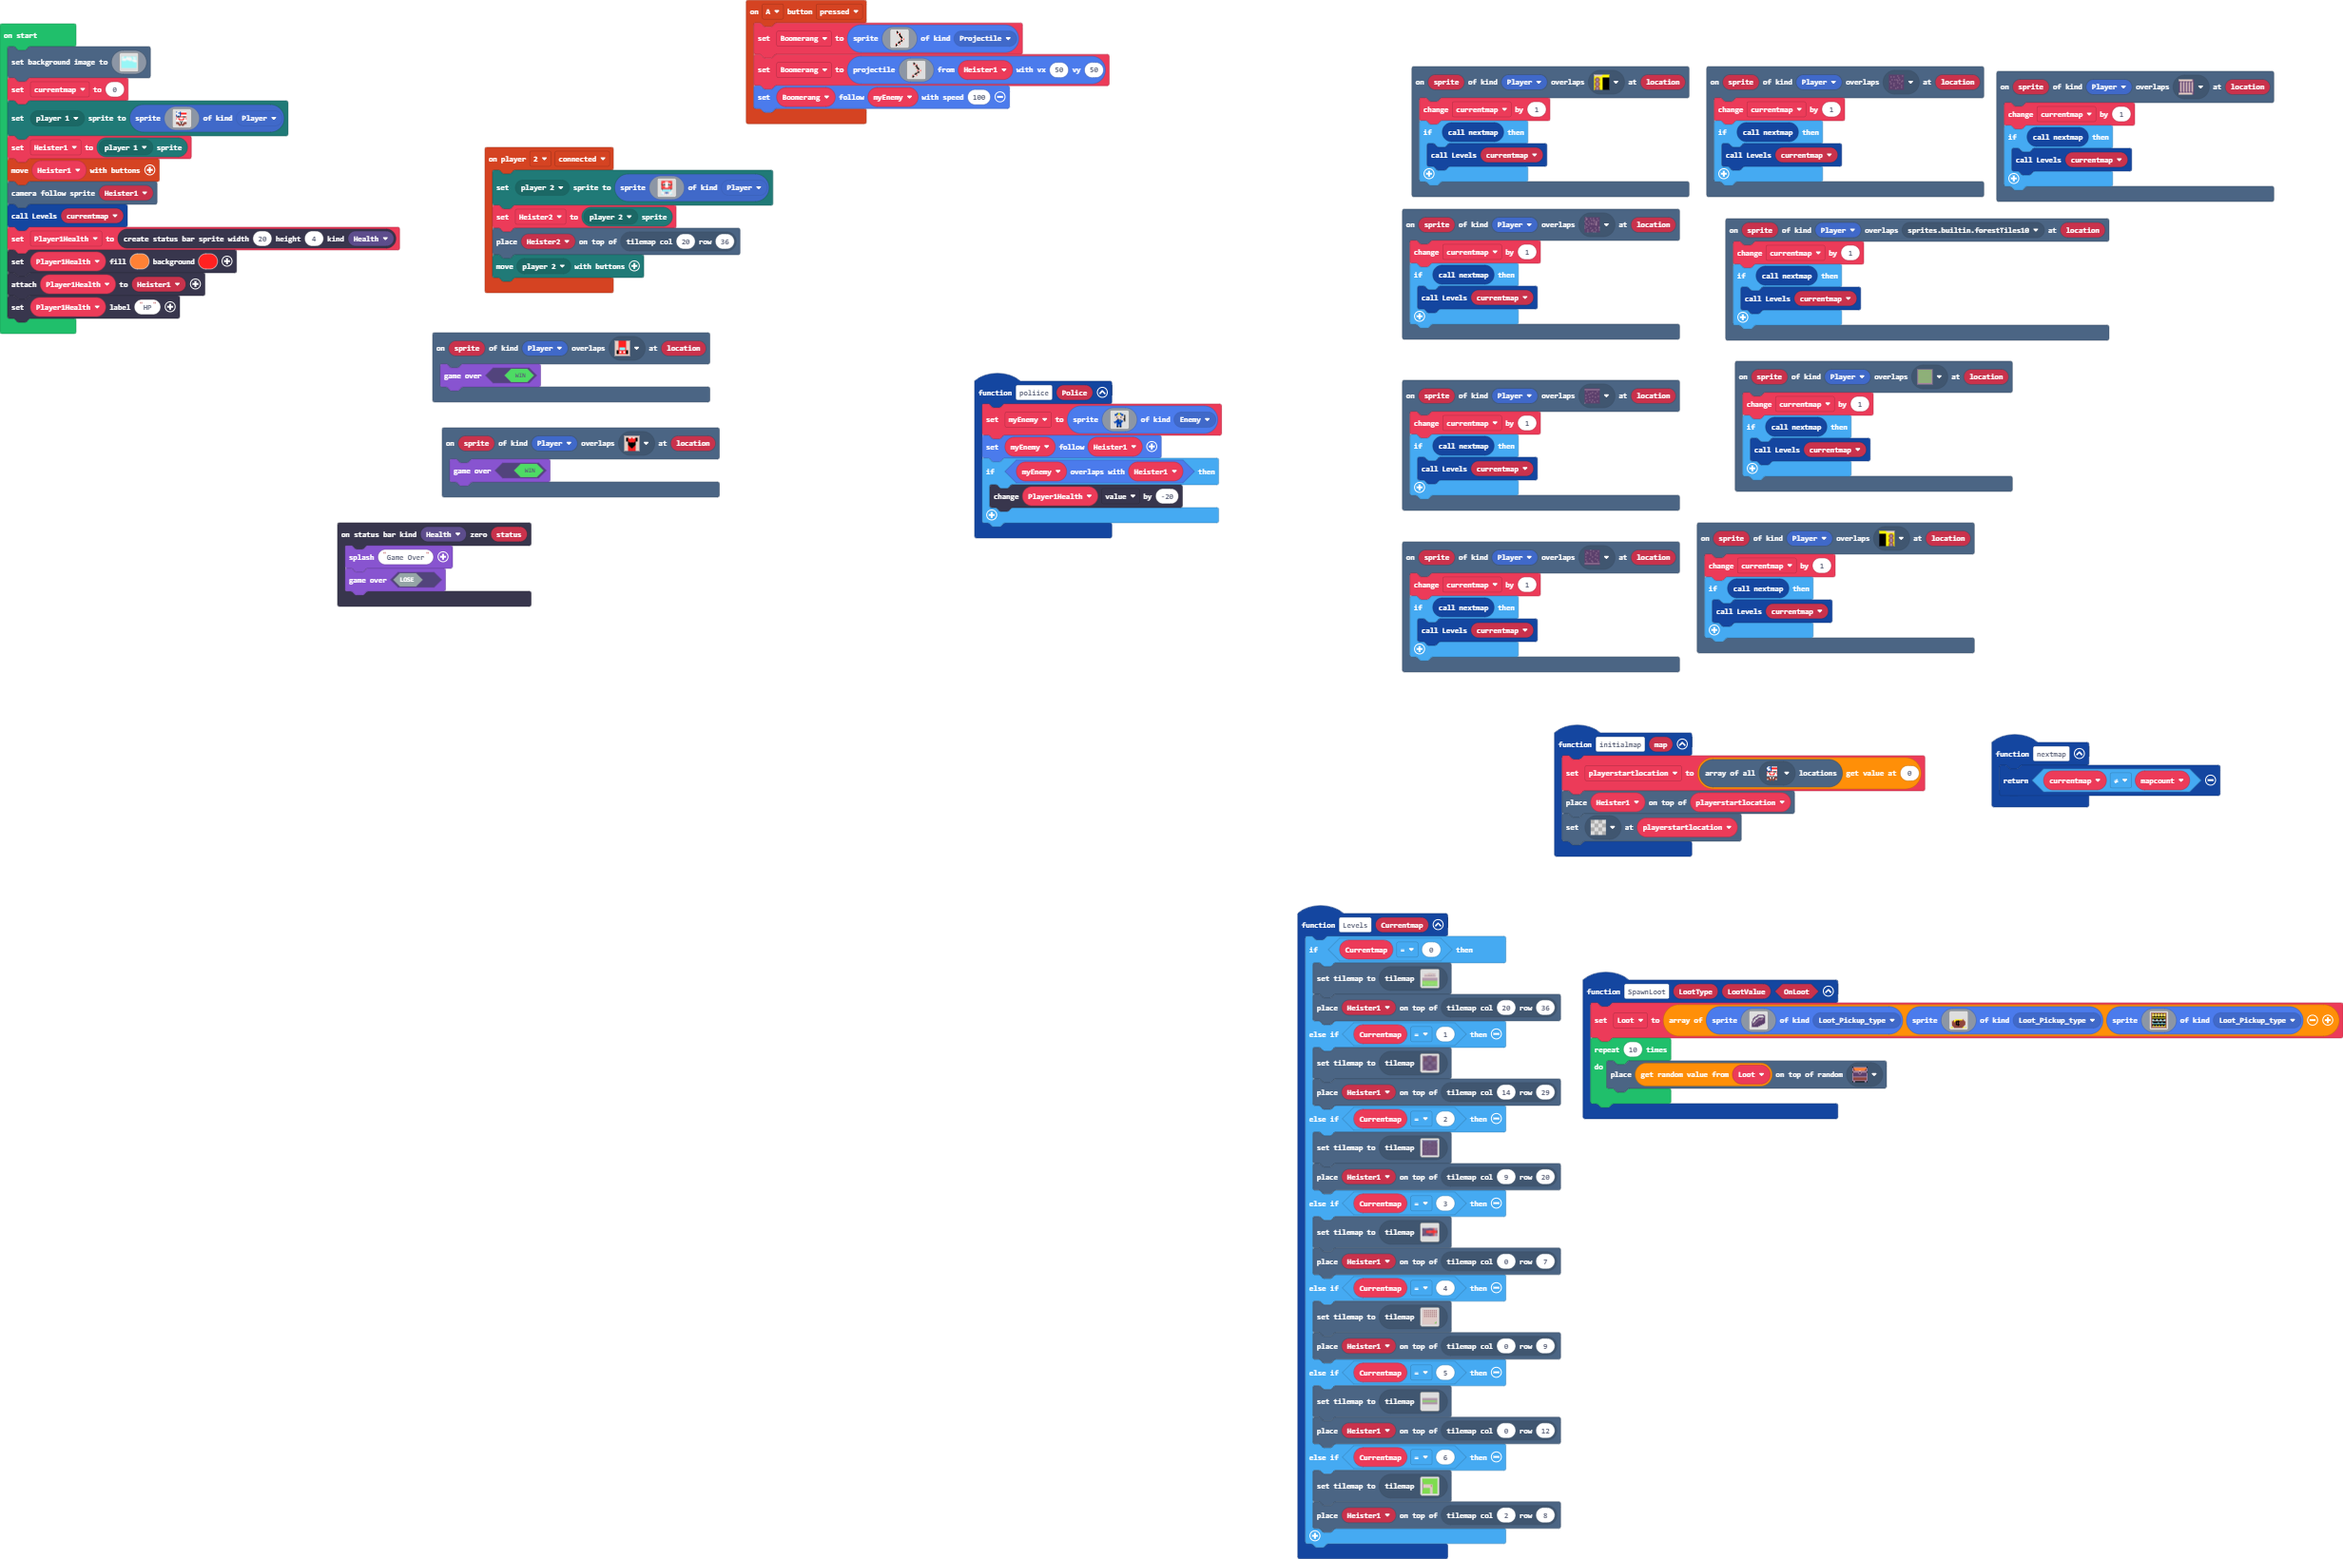
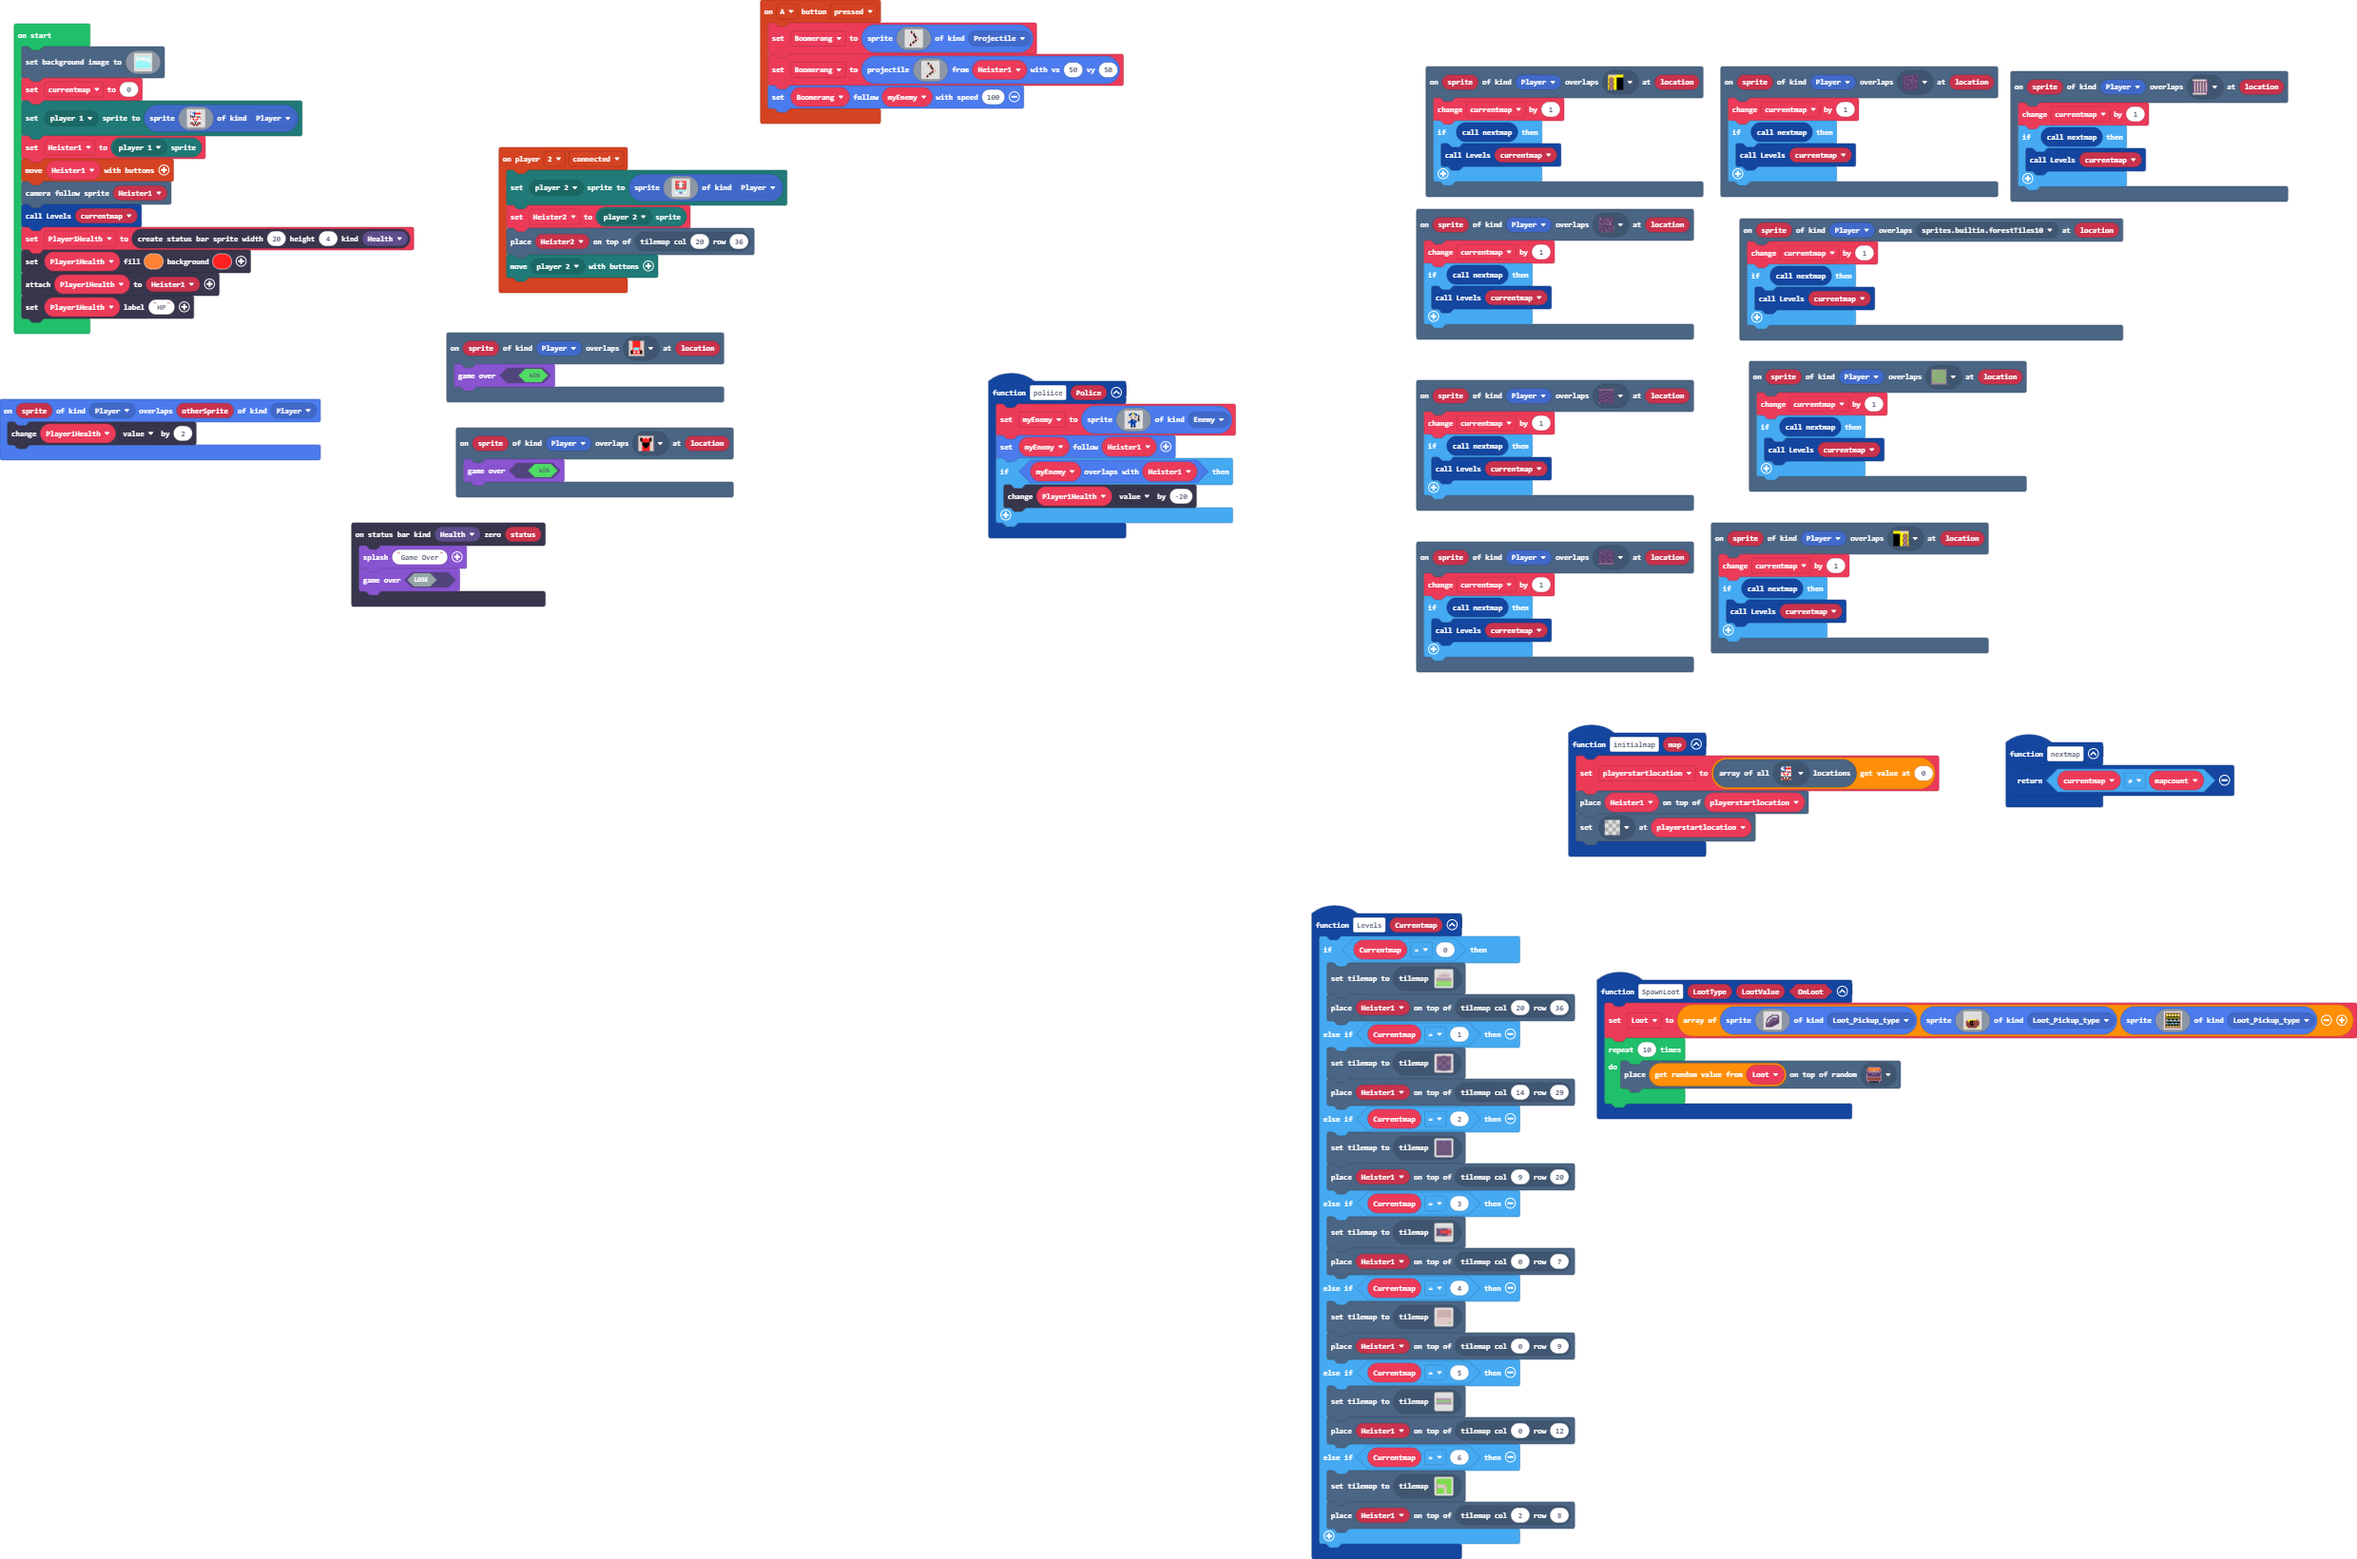
Update main.blocks, main.ts

diff --git a/main.ts b/main.ts
@@ -91,6 +91,9 @@ scene.onOverlapTile(SpriteKind.Player, assets.tile`myTile2`, function (sprite, l
         Levels(currentmap)
     }
 })
+sprites.onOverlap(SpriteKind.Player, SpriteKind.Player, function (sprite, otherSprite) {
+    Player1Health.value += 2
+})
 scene.onOverlapTile(SpriteKind.Player, assets.tile`myTile31`, function (sprite, location) {
     currentmap += 1
     if (nextmap()) {
